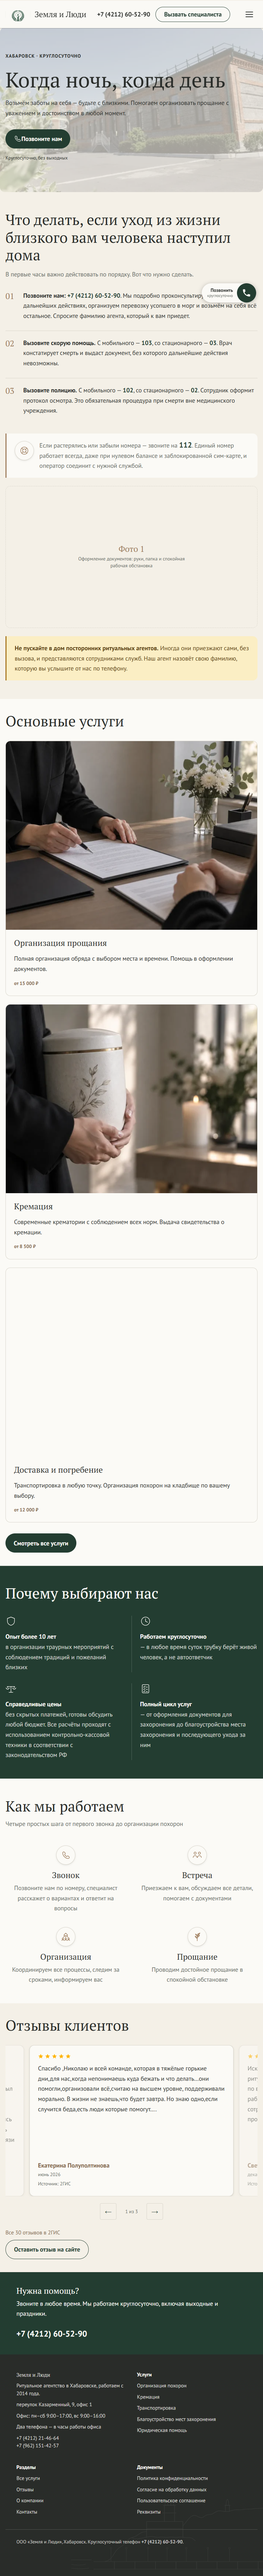
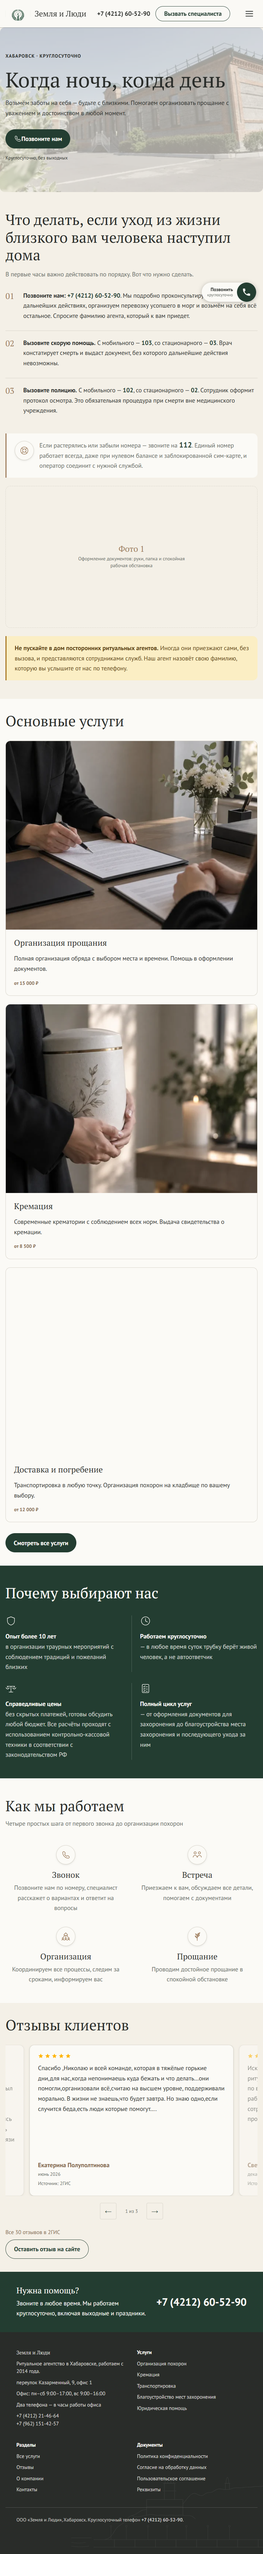
Призыв: две колонки, номер справа и крупнее заголовка, на узких во всю ширину

diff --git a/wp-content/themes/razil/assets/css/main.css b/wp-content/themes/razil/assets/css/main.css
@@ -3796,6 +3796,32 @@ html {
 	flex-wrap: wrap;
 }
 
+/* Две колонки: слева обращение, справа номер.
+
+   До правки колонок не было ни на одной ширине — даже на 1920
+   заголовок с абзацем занимали всю строку, а номер уходил под них.
+   Причина не в раскладке, а в ширине: `.rz-cta__text` — это
+   core/group, а всем группам в теме поставлено `width: 100%`
+   (main.css:395). Замер на 1920: ряд 1160, текст занимал 1064 —
+   номеру оставалось 96 px, и он переносился. Ровно та же ловушка,
+   что была в шапке в задаче 1.
+
+   Поэтому чинится ширина, а не перенос: перенос по-прежнему нужен
+   при 200 % текста, когда номер в строку не влезает.
+
+   Основа 22rem у текста — это ширина, ниже которой обращение
+   становится нечитаемой колонкой в два слова; когда её вместе
+   с номером перестаёт хватать, ряд переносится сам. */
+.rz-cta__text {
+	width: auto;
+	flex: 1 1 22rem;
+	min-width: 0;
+}
+
+.rz-cta__phone {
+	flex: 0 0 auto;
+}
+
 .rz-cta__row > *,
 .rz-cta__text > * {
 	margin-block: 0;
@@ -3806,9 +3832,17 @@ html {
 	margin-top: 0.5rem;
 }
 
-/* Перенос разрешён по той же причине, что у телефона в шапке. */
+/* Номер — главный акцент блока, и по кеглю тоже.
+
+   До правки он был 24 px при заголовке «Нужна помощь?» в 27 px
+   на 1366 и 30 px на 1920: главным в блоке выглядел вопрос,
+   а не ответ. Теперь номер крупнее заголовка на всех ширинах,
+   где блок идёт в две колонки, и остаётся прежним на узких:
+   375 — те же 24 px, 768 — 31, от 1366 и шире — 36.
+
+   Перенос разрешён по той же причине, что у телефона в шапке. */
 .rz-cta__phone a {
-	font-size: 1.5rem;
+	font-size: clamp(1.5rem, 1.1rem + 1.7vw, 2.25rem);
 	font-weight: 700;
 	color: inherit;
 	text-decoration: none;
@@ -3895,6 +3929,29 @@ html {
 .rz-cta__phone a:focus-visible {
 	outline: 2px solid var(--rz-cta-fg);
 	outline-offset: 2px;
+}
+
+/* До 760 px — одна колонка, номер во всю её ширину.
+
+   Раскладка остаётся горизонтальной, а на строки ряд делят основы
+   в 100 %: при `flex-direction: column` основа `flex: 1 1 22rem`
+   у текста стала бы высотой в 352 px, и блок распух бы впустую.
+
+   Ссылка становится блочной: цель нажатия тогда во всю ширину
+   колонки, а не 206 px посередине. Зона по высоте остаётся
+   прежней — её задаёт общее правило тап-зон. */
+@media (max-width: 47.5rem) {
+	.rz-cta__text {
+		flex-basis: 100%;
+	}
+
+	.rz-cta__phone {
+		flex: 1 0 100%;
+	}
+
+	.rz-cta__phone a {
+		display: block;
+	}
 }
 
 .rz-footer__copyright {

diff --git a/_reports/fixes-main-2026-09-21.md b/_reports/fixes-main-2026-09-21.md
@@ -15,7 +15,7 @@
 | 1. Шапка | завершена | ПРОШЁЛ |
 | 2. Боковой блок с примечанием 112 | завершена | ПРОШЁЛ |
 | 3. Блок «Как мы работаем» | завершена | ПРОШЁЛ |
-| 4. Блок «Нужна помощь?» | не начата | — |
+| 4. Блок «Нужна помощь?» | завершена | ПРОШЁЛ |
 | 5. Плавающая кнопка звонка | не начата | — |
 
 **Ни одна формулировка текста страницы не переписана.** Снимок текста
@@ -750,3 +750,194 @@ tokens.css, строки 30–32). Я сначала перекрасил ико
 на 375, 768, 1024, 1366 и 1920.
 
 **Вердикт задачи 3: ПРОШЁЛ.**
+
+---
+
+## Задача 4 — Блок «Нужна помощь?»
+
+Блок живёт в `parts/footer.html` и показывается на всех страницах,
+кроме каталога услуг и страниц отдельных услуг. Поэтому проверка
+здесь шире, чем на главной: полный обход всех 19 страниц на пяти
+ширинах.
+
+### Разведка: что было
+
+```
+ширина  ряд        строк  текст          телефон        ссылка   кегль
+  375   343x187      2    36..339        36..242        206x31   24px
+  768   736x160      2    48..720        48..254        206x31   24px
+ 1024   992x132      2    64..960        64..270        206x31   24px
+ 1366  1160x134      2    151..1215      151..357       206x31   24px
+ 1920  1160x137      2    428..1492      428..634       206x31   24px
+```
+
+Двух колонок не было ни на одной ширине, включая 1920: заголовок
+с абзацем занимали всю строку, номер уходил под них и вставал
+у левого края. Зона нажатия при этом была в порядке — 44x206,
+пробой по четырём кромкам проходил (это правка прошлого прогона,
+поднявшая цель с 31 px до 44).
+
+Причина, а не симптом: `.rz-cta__text` — это `core/group`, а всем
+группам в теме поставлено `width: 100%` (main.css:395). Замер
+на 1920: ряд 1160 px, текст занимал 1064 — номеру оставалось 96,
+и `flex-wrap: wrap` честно переносил его на вторую строку. Ровно
+та же ловушка, что была в шапке в задаче 1, и лечится так же:
+шириной, а не отменой переноса.
+
+Второе наблюдение: номер набран 24 px, а заголовок «Нужна помощь?»
+— 27 px на 1366 и 30 px на 1920 (`heading-s` — это clamp).
+Главным в блоке выглядел вопрос, а не ответ на него.
+
+### Что сделано
+
+Только стили, разметка не тронута.
+
+| Правило | Что делает |
+|---------|------------|
+| `.rz-cta__text` | `width: auto`, `flex: 1 1 22rem`, `min-width: 0` |
+| `.rz-cta__phone` | `flex: 0 0 auto` — номер занимает свою ширину и встаёт справа |
+| `.rz-cta__phone a` | кегль `clamp(1.5rem, 1.1rem + 1.7vw, 2.25rem)` вместо `1.5rem` |
+| `@media (max-width: 47.5rem)` | обе части получают основу 100 % — одна колонка; ссылка становится блочной |
+
+`justify-content: space-between`, `align-items: center` и
+`flex-wrap: wrap` у ряда оставлены как были.
+
+### Затронутые решения прошлого прогона (инвариант И17)
+
+**`.wp-block-group { width: 100% }`** (main.css:395) — решение
+прошлого прогона о том, что группы ядра занимают всю ширину.
+Не отменяется: снимается точечно с одного элемента, как это уже
+сделано в задаче 1 для детей шапки. Селектор `.rz-cta__text`
+(0,1,0) идёт ниже по файлу, чем `.wp-block-group` (0,1,0), —
+решает порядок, `!important` не нужен.
+
+**Зона нажатия телефона в призыве** (прошлый прогон: «у них зоны
+не было вовсе, замер давал 23 и 31 px при норме 44»). Сохранена
+и стала больше: сама ссылка теперь 47 px высотой на 1366, а
+на узких экранах растянута во всю ширину колонки — 303 px вместо
+206 на 375.
+
+**Запас подвала 5.5rem снизу** (прошлый прогон, §25). Не тронут:
+88 px при обычном тексте, 176 px при 200 %. Решение о том,
+оставить его безусловным или ограничить узкими экранами, принимается
+в задаче 5 — оно про висящую кнопку.
+
+### Замеры и критерии приёмки
+
+**К1. Две колонки от 761 px, одна до 760.** Строки считаются
+не по совпадению `top` (у элементов разной высоты при
+`align-items: center` верхние кромки законно разные), а по
+пересечению вертикальных диапазонов:
+
+| Ширина | Строк | Текст | Телефон | Ссылка | Кегль |
+|--------|-------|-------|---------|--------|-------|
+| 375 | 2 | 36..339 | 36..339 | 303x40 | 24px |
+| 760 | 2 | 36..724 | 36..724 | 688x50 | 30.5px |
+| 761 | 1 | 36..439 | 463..725 | 262x39 | 30.5px |
+| 1024 | 1 | 64..635 | 659..960 | 301x46 | 35px |
+| 1366 | 1 | 151..882 | 906..1215 | 309x47 | 36px |
+| 1920 | 1 | 428..1159 | 1183..1492 | 309x47 | 36px |
+
+На 375 и 760 телефон занимает всю ширину колонки (36..339 и
+36..724 — те же границы, что у текста), на 761 и шире стоит справа.
+
+**К2. Номер — главный акцент.** Кегль номера против кегля
+заголовка: 1366 — 36 против 27, 1920 — 36 против 30, 1024 — 35
+против 25.8. На 375 номер остался прежним, 24 px: там колонка
+одна, и соревноваться не с чем.
+
+**К3. Зона нажатия телефона.** Пробой `elementFromPoint`
+по четырём кромкам:
+
+```
+  375px z100 зона 44x303  верх:да низ:да лево:да право:да
+  760px z100 зона 50x688  верх:да низ:да лево:да право:да
+  761px z100 зона 44x262  верх:да низ:да лево:да право:да
+ 1024px z100 зона 46x301  верх:да низ:да лево:да право:да
+ 1366px z100 зона 47x309  верх:да низ:да лево:да право:да
+ 1920px z100 зона 47x309  верх:да низ:да лево:да право:да
+  375px z200 зона 158x231 верх:да низ:да лево:да право:да
+  768px z200 зона 62x414  верх:да низ:да лево:да право:да
+ 1366px z200 зона 75x502  верх:да низ:да лево:да право:да
+```
+
+Нигде не меньше 44 px по высоте.
+
+**К4. Контраст белого на зелёном.** Текст `rgb(251, 250, 246)`
+на подложке `rgb(35, 61, 49)` — **11.28:1**. Порог AA для обычного
+текста 4.5, для крупного 3.0; здесь запас больше двукратного даже
+по строгому. Цвет не менялся — это замер того, что есть, как
+просит задание.
+
+**К5. Запас подвала 5.5rem.** `padding-bottom` подвала: 88 px
+при обычном тексте, 176 px при 200 %. Не тронут.
+
+**К6. Поведение при 200 % текста.** Ряд снова распадается на две
+строки на всех ширинах — и это правильно: основа 22rem задана
+в rem и растёт вместе с текстом, поэтому номер уходит вниз ровно
+тогда, когда рядом ему уже не хватает места. Горизонтальной
+прокрутки нет: `scrollWidth` = `clientWidth` на 375, 768, 1366
+и 1920.
+
+**К7. Снимки.** На 1366 вижу: тёмно-зелёная полоса, слева
+«Нужна помощь?» и строка про круглосуточную работу, справа
+крупный номер — он читается первым. На 768 то же самое, номер
+чуть меньше. На 375 одна колонка: заголовок, абзац в три строки,
+под ними номер во всю ширину.
+
+### Протокол проверки
+
+**П1 `git diff --stat`** — один файл:
+
+```
+ wp-content/themes/razil/assets/css/main.css | 61 ++++++++++++++++++++++++++-
+```
+
+**П2 круговорот блоков:** `--- ИТОГО: проверено 36, упало 0`.
+
+**П3 побайтовые проверки:** `main.css` — CRLF, без BOM, прошёл.
+
+**П4 и П5 текст, телефоны, суммы:** расхождение с базой то же
+самое, что после задачи 2, — подсказка заглушки. Телефоны 8 → 8,
+суммы 6 → 6.
+
+**П6 обход всех 19 страниц на пяти ширинах** — 95 срезов, потому
+что призыв стоит в общем подвале и виден почти везде.
+Результат: `2 из 95`. Оба замечания — «висящая кнопка накрывает
+строку копирайта», `/kontakty/` на 768 и 1024.
+
+Разобрался, а не списал. Прямой замер той же страницы и той же
+ширины: кнопка занимает 824..880 по вертикали, абзац копирайта —
+764..812, зазор 12 px, перекрытия нет. Повтор того же среза
+отдельно — три прогона из трёх чисто; те же три прогона на коде
+без правки задачи 4 — тоже чисто. Замечание появляется только
+внутри полного обхода: страница контактов догружает карту уже
+после того, как проверка прокрутила её вниз, высота меняется,
+и пробой попадает не в ту точку.
+
+Значит, у самой проверки висящей кнопки есть изъян: она меряет
+до того, как страница перестала расти. Это записано в раздел
+«Чего эти проверки не видят»; в задаче 5, которая как раз про эту
+кнопку, проверка будет переделана на ожидание устойчивой высоты.
+
+**П7 зона нажатия** — см. К3, 9 срезов из 9 без промахов.
+
+**П8 скриншоты** — `_reports/shots/after/`, см. К7.
+
+**П9 регрессия по 200 %** — обход 19 страниц на 375 и 768:
+`Срезов с замечаниями: 0 из 38`.
+
+**П10 консоль:** ошибок нет.
+
+**П11 добавленные `!important`:** **ни одного.**
+
+**П12 `overflow` на выносках и элементах с `::after` тап-зон:**
+правил с `hidden`/`clip` на этих селекторах — 0.
+
+**П13 клавиатура:** телефон призыва получает фокус 22-м шагом
+на 1366, обводка 2px solid, высота цели 47 px. Единственный
+элемент без видимой обводки — `iframe` карты, как и раньше.
+
+**Шапка после правки:** `срезов с замечаниями: 0 из 3`.
+
+**Вердикт задачи 4: ПРОШЁЛ.**
